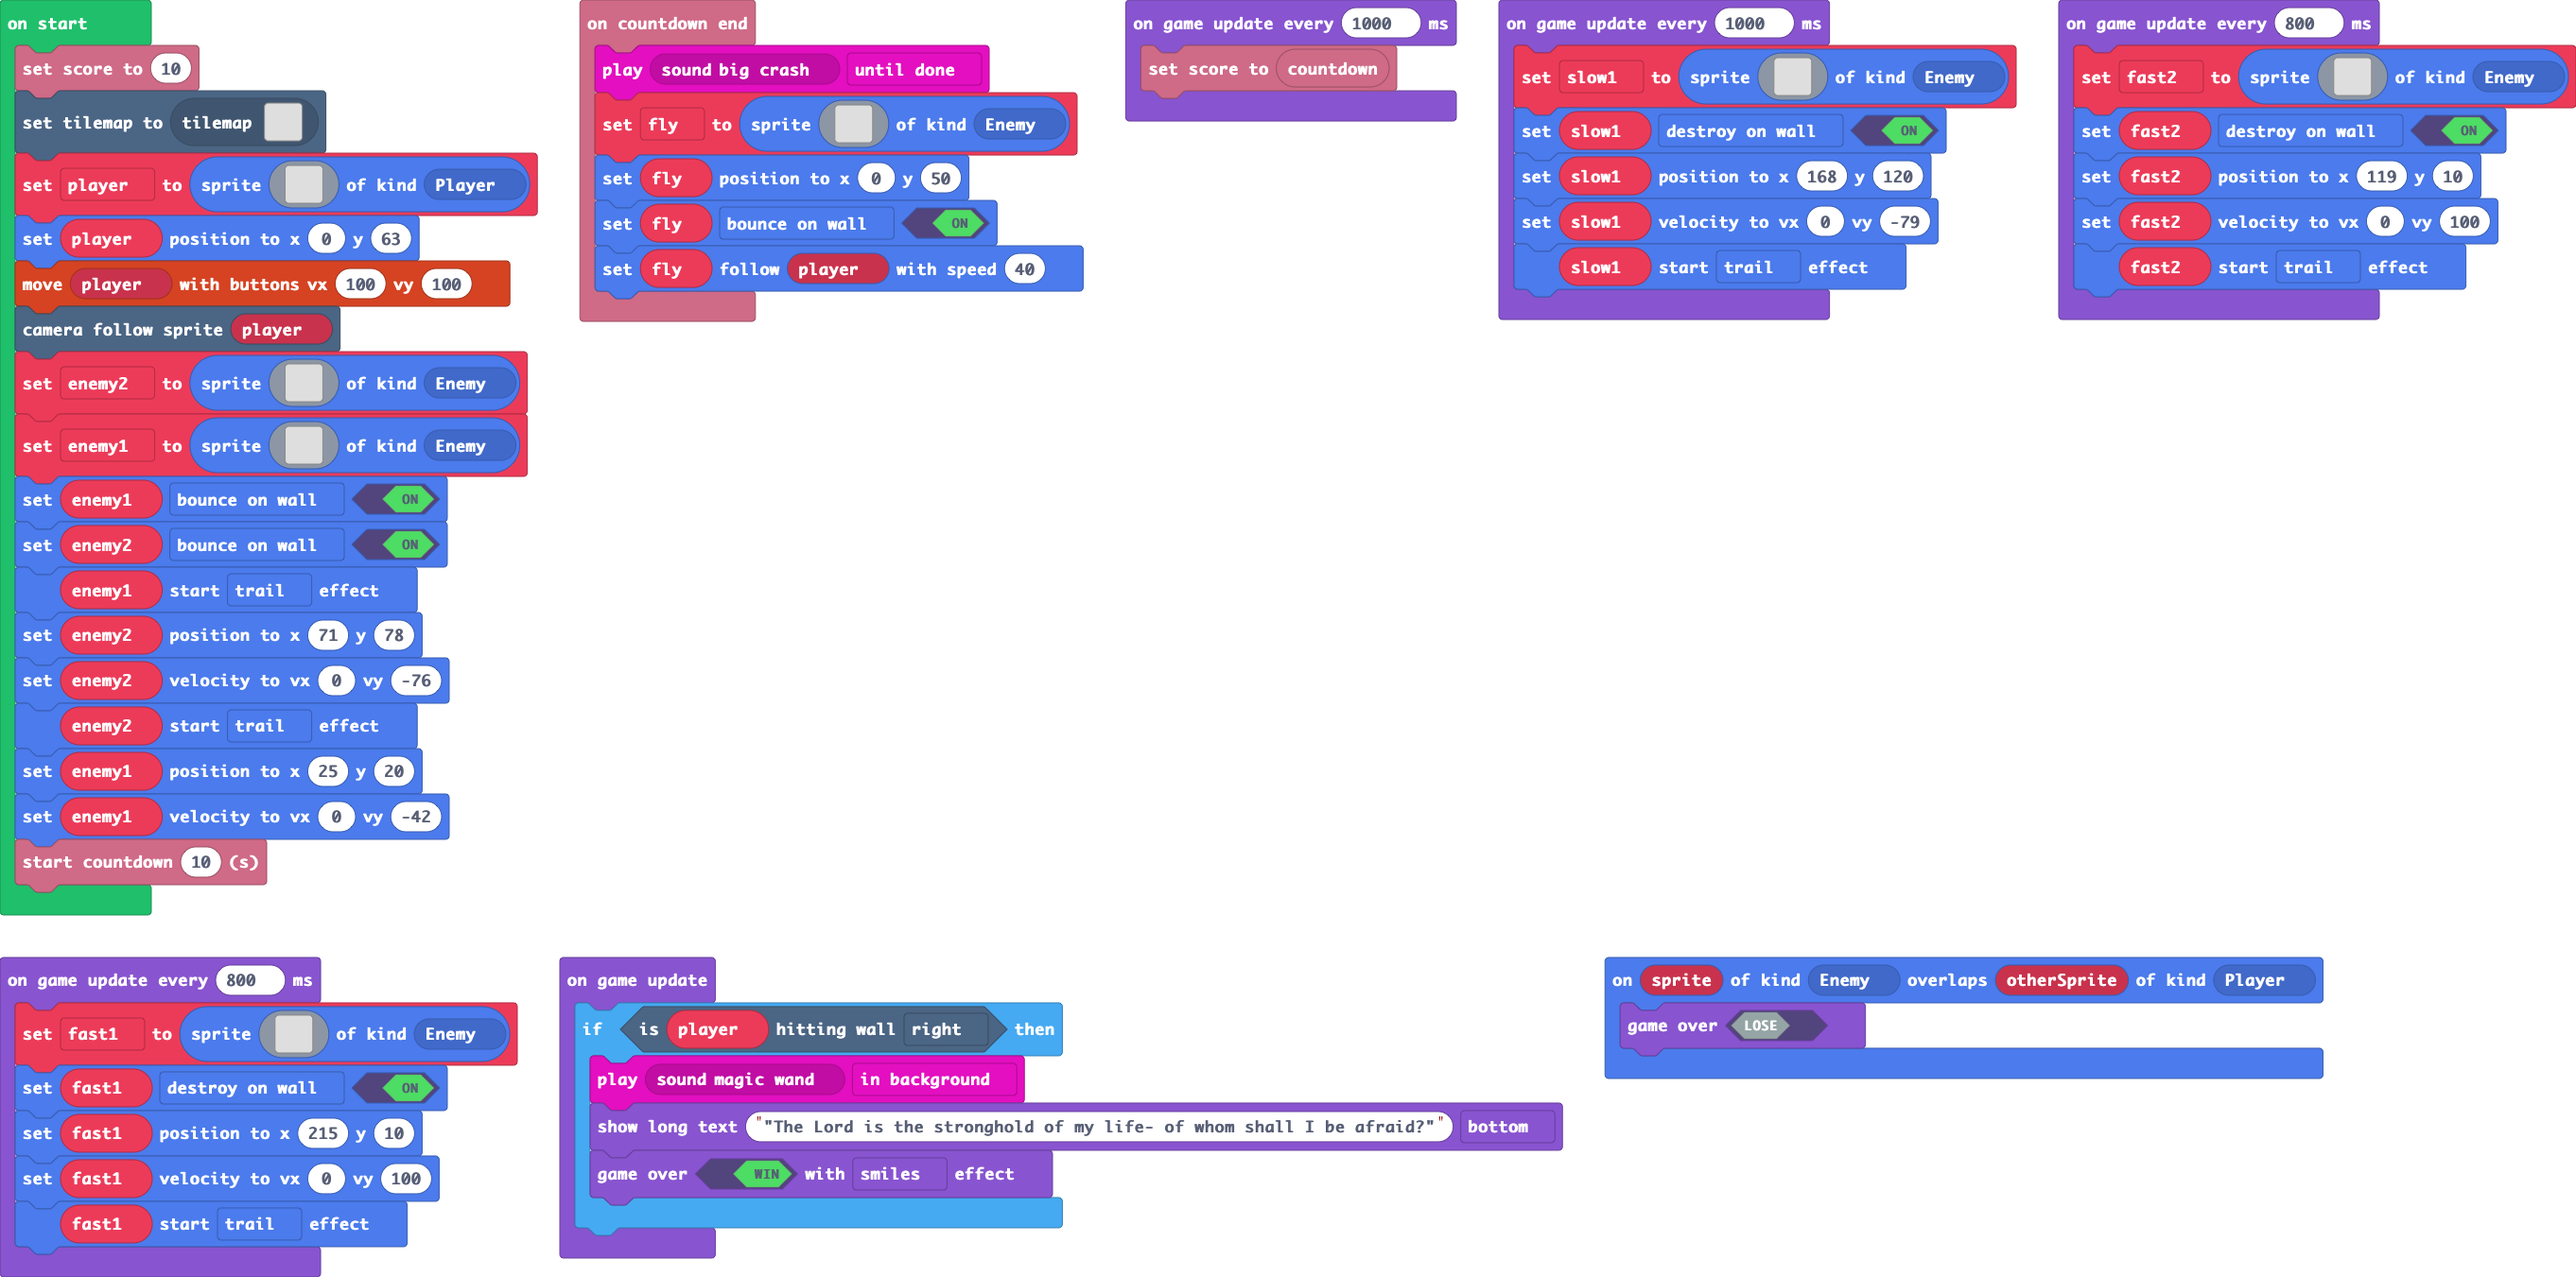
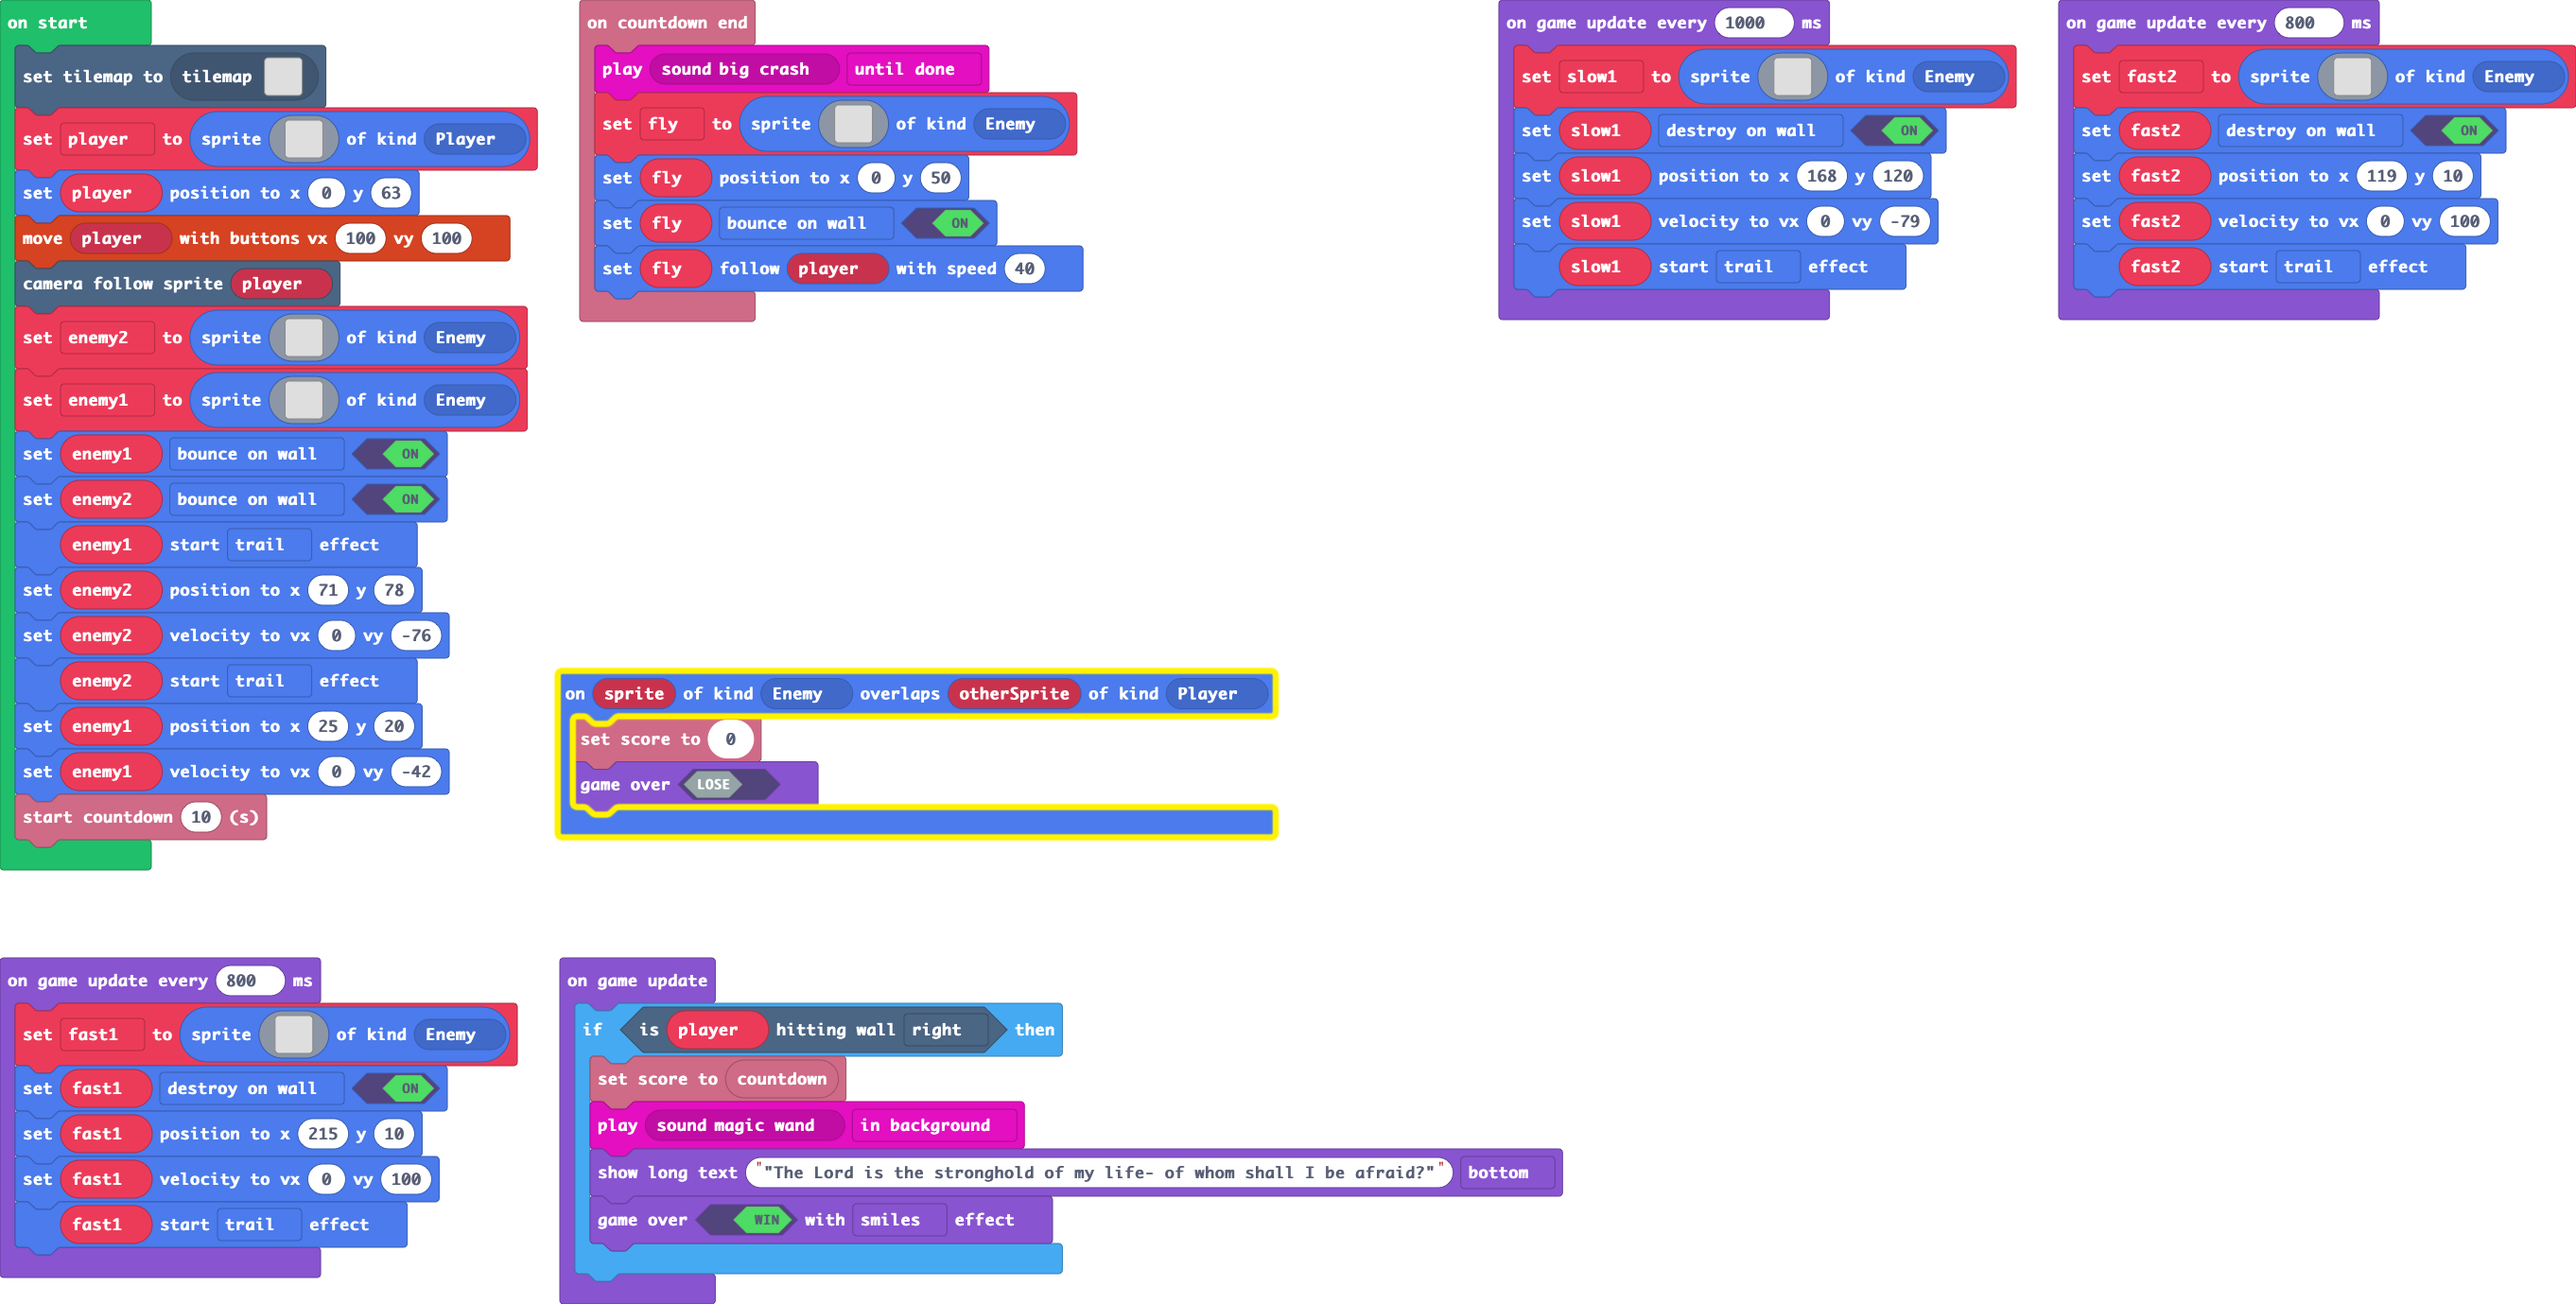
Fix scoring logic

Changed region(s): [[0.0, 0.0, 0.9049, 1.0], [0.4369, 0.0, 0.7801, 0.2487], [0.8113, 0.0, 0.9985, 0.2487]]

diff --git a/tilemap.g.ts b/tilemap.g.ts
@@ -47,6 +47,25 @@ namespace myTiles {
 2 2 2 2 2 2 2 2 2 2 2 2 2 2 2 2 
 2 2 2 2 2 2 2 2 2 2 2 2 2 2 2 2 
 `, [myTiles.transparency16,sprites.castle.tileGrass2,sprites.castle.tileGrass1,sprites.castle.tileGrass3,sprites.builtin.forestTiles21,sprites.builtin.forestTiles22,sprites.dungeon.floorLight0,sprites.dungeon.floorLight1,sprites.dungeon.greenOuterNorthWest,sprites.dungeon.greenOuterSouthEast,sprites.dungeon.greenOuterWest2,sprites.dungeon.greenOuterEast0,sprites.dungeon.greenOuterSouthWest,sprites.dungeon.greenOuterNorthEast,sprites.builtin.forestTiles3,sprites.builtin.forestTiles2,sprites.castle.tilePath4,sprites.castle.tilePath6,sprites.castle.tilePath5], TileScale.Sixteen);
+            case "level3":
+            case "level3":return tiles.createTilemap(hex`1000100000000000000000000000000000000000000000000000000000000000000000000000000000000000000000000000000000000000000000000000000000000000000000000000000000000000000000000000000000000000000000000000000000000000000000000000000000000000000000000000000000000000000000000000000000000000000000000000000000000000000000000000000000000000000000000000000000000000000000000000000000000000000000000000000000000000000000000000000000000000000000000000000000000000000000000000000000000000000000000000000000000000000000000000000000000000`, img`
+. . . . . . . . . . . . . . . . 
+. . . . . . . . . . . . . . . . 
+. . . . . . . . . . . . . . . . 
+. . . . . . . . . . . . . . . . 
+. . . . . . . . . . . . . . . . 
+. . . . . . . . . . . . . . . . 
+. . . . . . . . . . . . . . . . 
+. . . . . . . . . . . . . . . . 
+. . . . . . . . . . . . . . . . 
+. . . . . . . . . . . . . . . . 
+. . . . . . . . . . . . . . . . 
+. . . . . . . . . . . . . . . . 
+. . . . . . . . . . . . . . . . 
+. . . . . . . . . . . . . . . . 
+. . . . . . . . . . . . . . . . 
+. . . . . . . . . . . . . . . . 
+`, [myTiles.transparency16], TileScale.Sixteen);
         }
         return null;
     })

diff --git a/main.ts b/main.ts
@@ -6,6 +6,7 @@ info.onCountdownEnd(function () {
     fly.follow(player, 40)
 })
 sprites.onOverlap(SpriteKind.Enemy, SpriteKind.Player, function (sprite, otherSprite) {
+    info.setScore(0)
     game.over(false)
 })
 let fast1: Sprite = null
@@ -13,7 +14,6 @@ let fast2: Sprite = null
 let slow1: Sprite = null
 let fly: Sprite = null
 let player: Sprite = null
-info.setScore(10)
 tiles.setCurrentTilemap(tilemap`level`)
 player = sprites.create(assets.image`player`, SpriteKind.Player)
 player.setPosition(0, 63)
@@ -32,13 +32,11 @@ enemy1.setVelocity(0, -42)
 info.startCountdown(10)
 game.onUpdate(function () {
     if (player.isHittingTile(CollisionDirection.Right)) {
+        info.setScore(info.countdown())
         music.play(music.melodyPlayable(music.magicWand), music.PlaybackMode.InBackground)
         game.showLongText("\"The Lord is the stronghold of my life- of whom shall I be afraid?\"", DialogLayout.Bottom)
         game.over(true, effects.smiles)
     }
-})
-game.onUpdateInterval(1000, function () {
-    info.setScore(info.countdown())
 })
 game.onUpdateInterval(1000, function () {
     slow1 = sprites.create(assets.image`enemy4`, SpriteKind.Enemy)
